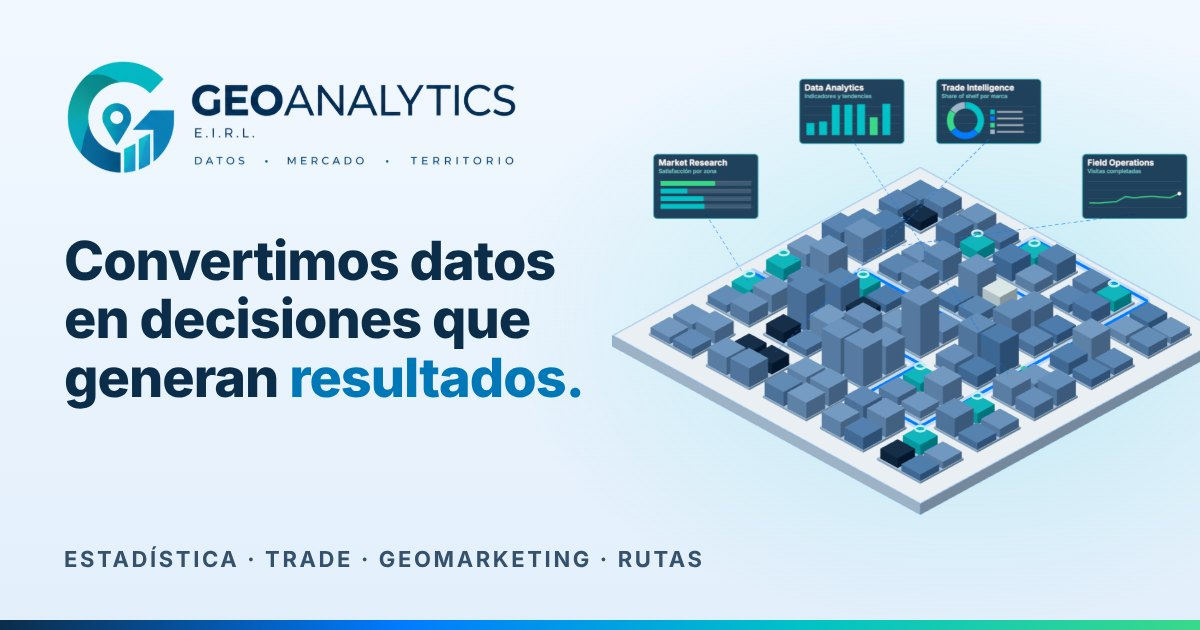
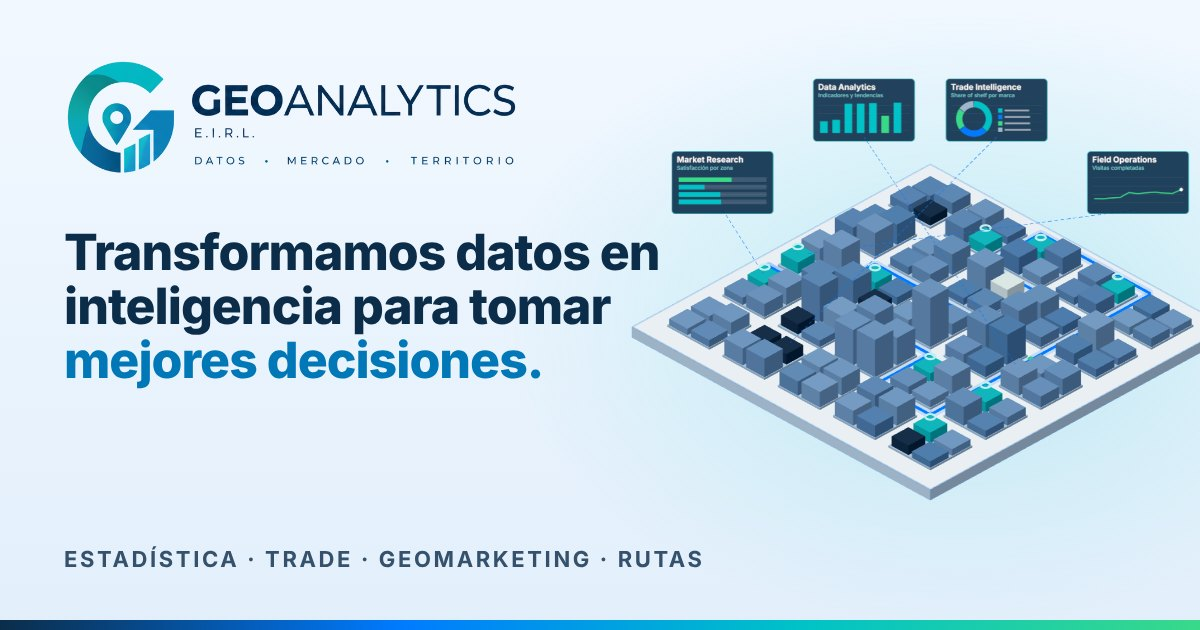
Nuevo mensaje de portada: Transformamos datos en inteligencia para tomar mejores decisiones
Claude-Session: https://claude.ai/code/session_01Cv3uZTgXXG78sRjimNaupE

Changed region(s): [[0.0308, 0.2413, 1.0, 0.8143], [0.6475, 0.1206, 0.8942, 0.2413]]

diff --git a/src/assets/css/estilos.css b/src/assets/css/estilos.css
@@ -1259,3 +1259,6 @@ input[type="search"], input[type="text"], input[type="email"], input[type="tel"]
 .rv.inclina:not(.rv-on) { transform: translateY(28px) scale(.985); }
 .metodo.metodo--vertical { grid-template-columns: 1fr; row-gap: 0; }
 
+.pagina-inicio .portada__titulo, .portada__titulo { max-width: 20ch; font-size: clamp(2rem, 3.4vw, 2.95rem); }
+.portada__bajada--2 { margin-top: -.4rem; font-size: .98em; color: var(--texto-suave); }
+.portada__bajada--2 { animation-delay: .36s; }
